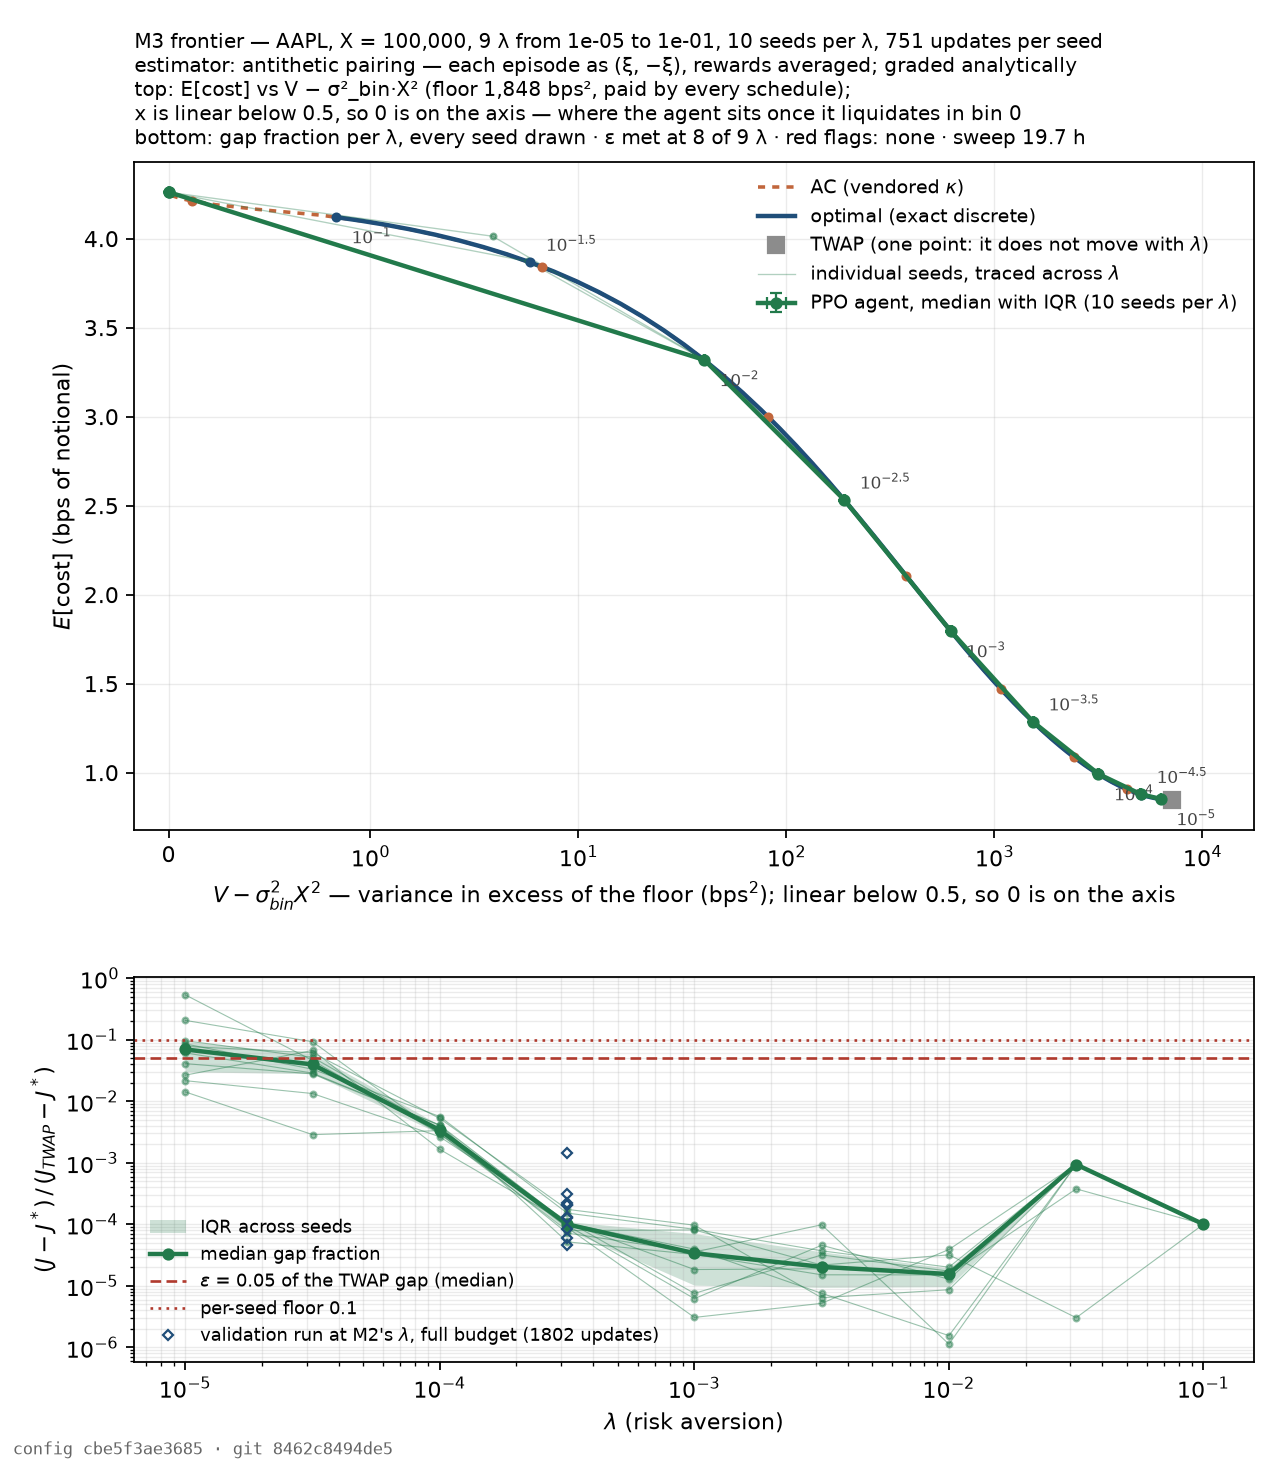
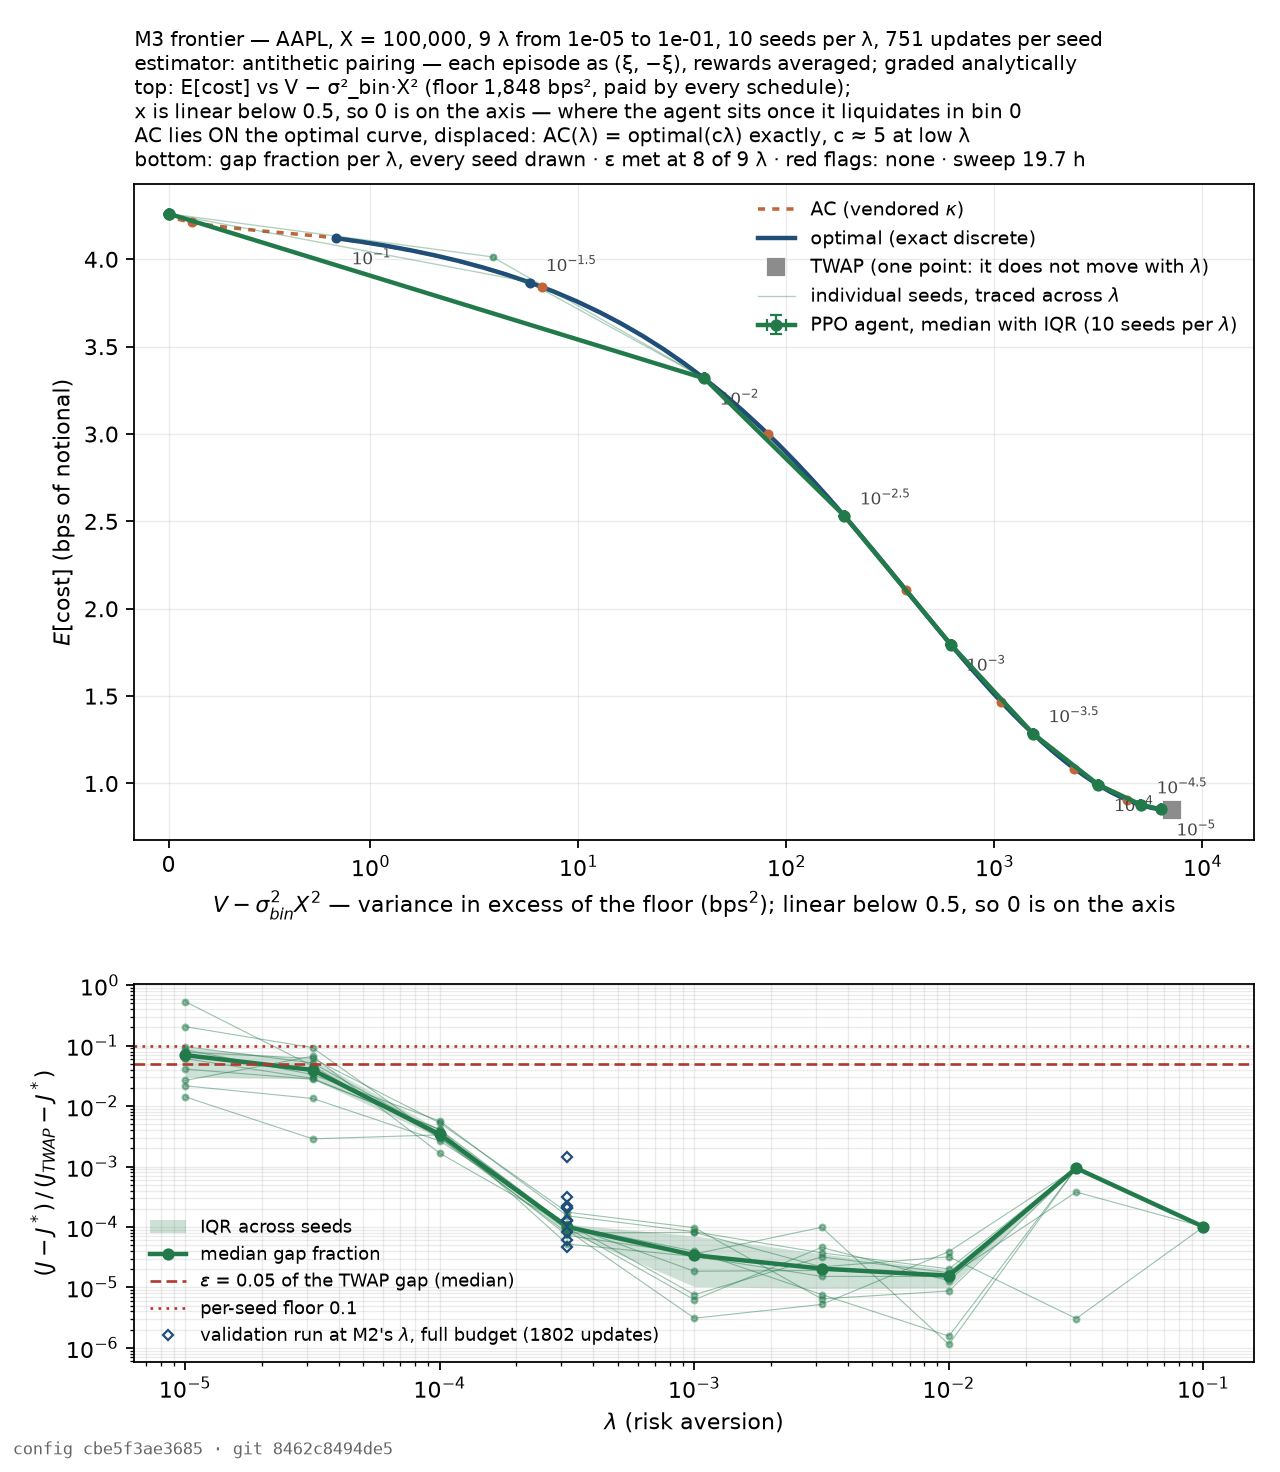
M3: fix the caption f-string I broke, and redraw
The previous commit shipped tools/m3_frontier.py with an unterminated f-string:
I wrote the edit through a bash heredoc, which turned the intended backslash-n
into a real newline inside a string literal, and committed it before the redraw
ran. The module would not import, so `figure`, `check`, `status` and `run` were
all dead at that revision and one test went red.

Caught immediately by the redraw in the same command chain, but committed
broken, which is the part worth recording: the suite is a gate only if it runs
*before* the commit, and here the ordering put the commit first. Repaired
through the Edit tool rather than a heredoc — the same lesson as the file that
already carries it in my notes.

The figure now renders with the AC-displacement line: 857 tests green,
byte-identical redraw verified from the committed aggregate.

diff --git a/tools/m3_frontier.py b/tools/m3_frontier.py
@@ -160,8 +160,7 @@ def _caption(document: dict) -> str:
         f"x is linear below 0.5, so 0 is on the axis — where the agent sits once it "
         f"liquidates in bin 0\n"
         f"AC lies ON the optimal curve, displaced: AC(λ) = optimal(cλ) exactly, "
-        f"c ≈ 5 at low λ
-"
+        f"c ≈ 5 at low λ\n"
         f"bottom: gap fraction per λ, every seed drawn · ε met at {met} of "
         f"{len(document['points'])} λ · red flags: "
         f"{'none' if verdict['red_flag_free'] else verdict['red_flags']} · "
